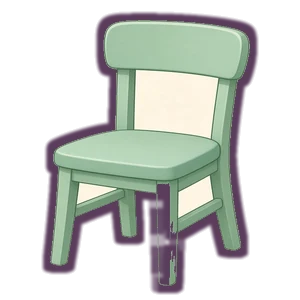
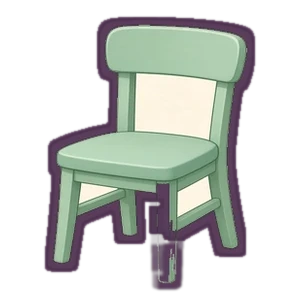
Kitchen refit (no repaint): chair, table and cake get the fridge's ink outline weight at the same footprint; contact shadows span table legs and cake plate; before/after compare

Changed region(s): [[0.12, 0.03, 0.87, 0.99], [0.6, 0.6, 0.66, 0.63]]

diff --git a/src/style.css b/src/style.css
@@ -161,6 +161,9 @@ body.mode-play #toolbar { display: none !important; }
 }
 /* Soft contact shadow under a raster floor piece. The SVG shadow stays in the drawing for ?art=v1. */
 .item .artshade { position: absolute; left: 12%; width: 76%; bottom: 0; height: 8%; border-radius: 50%; background: rgba(70, 44, 62, .20); filter: blur(2px); pointer-events: none; }
+/* Kitchen refit: the contact shadow spans the table's legs and the cake's plate, like the fridge's spans its base. */
+.item .artshade:has(+ .artimg[data-kind="table"]) { left: 4%; width: 92%; }
+.item .artshade:has(+ .artimg[data-kind="cake"]) { left: 9%; width: 82%; height: 6%; }
 .item.flipped .inner .packimg, .item.flipped .inner .artnight, .ghost.flipped .packimg { transform: scaleX(-1); }
 .ghost .packimg, .thing .packimg { object-position: 50% 50%; }
 .empty { align-self: center; margin: auto; font-weight: 800; opacity: .5; font-size: 18px; }
